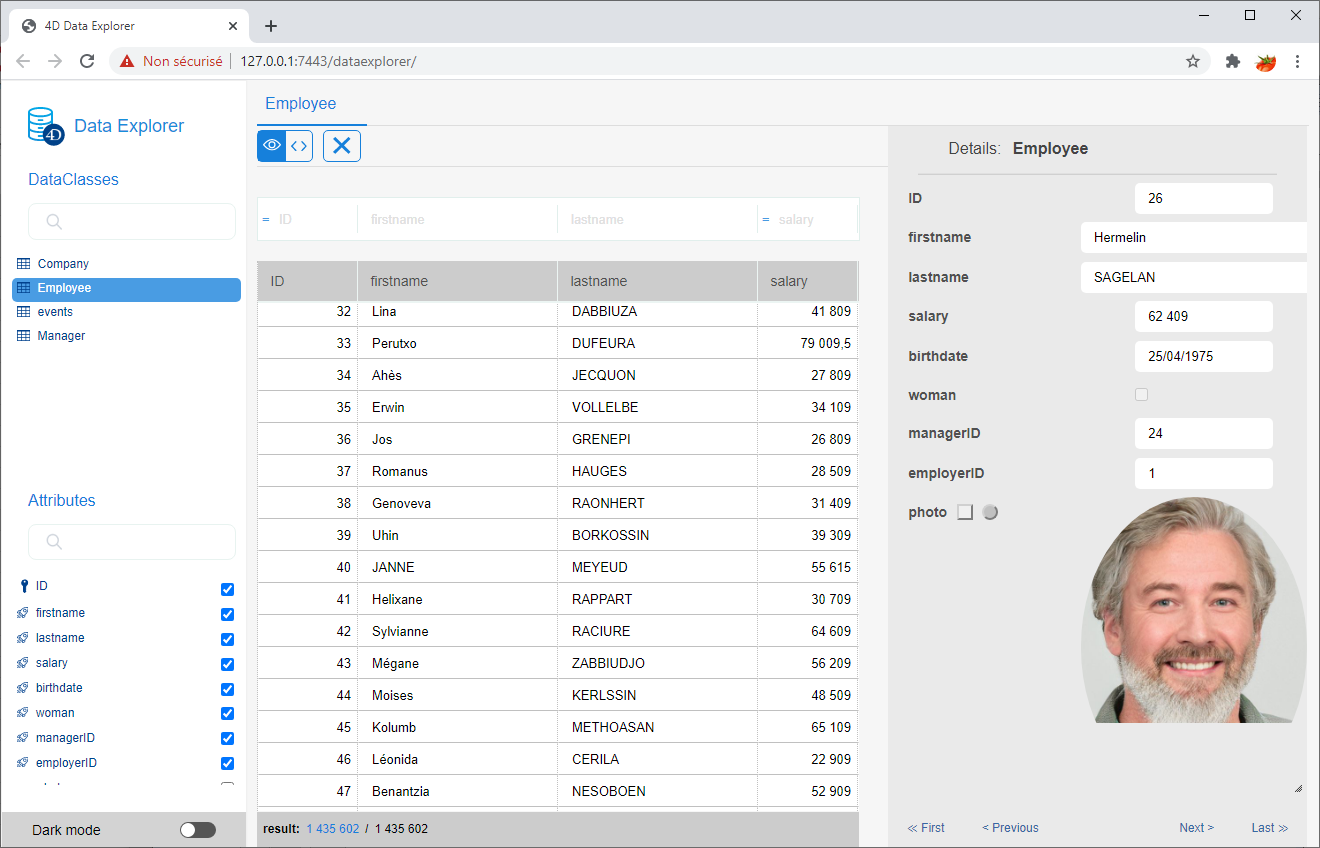
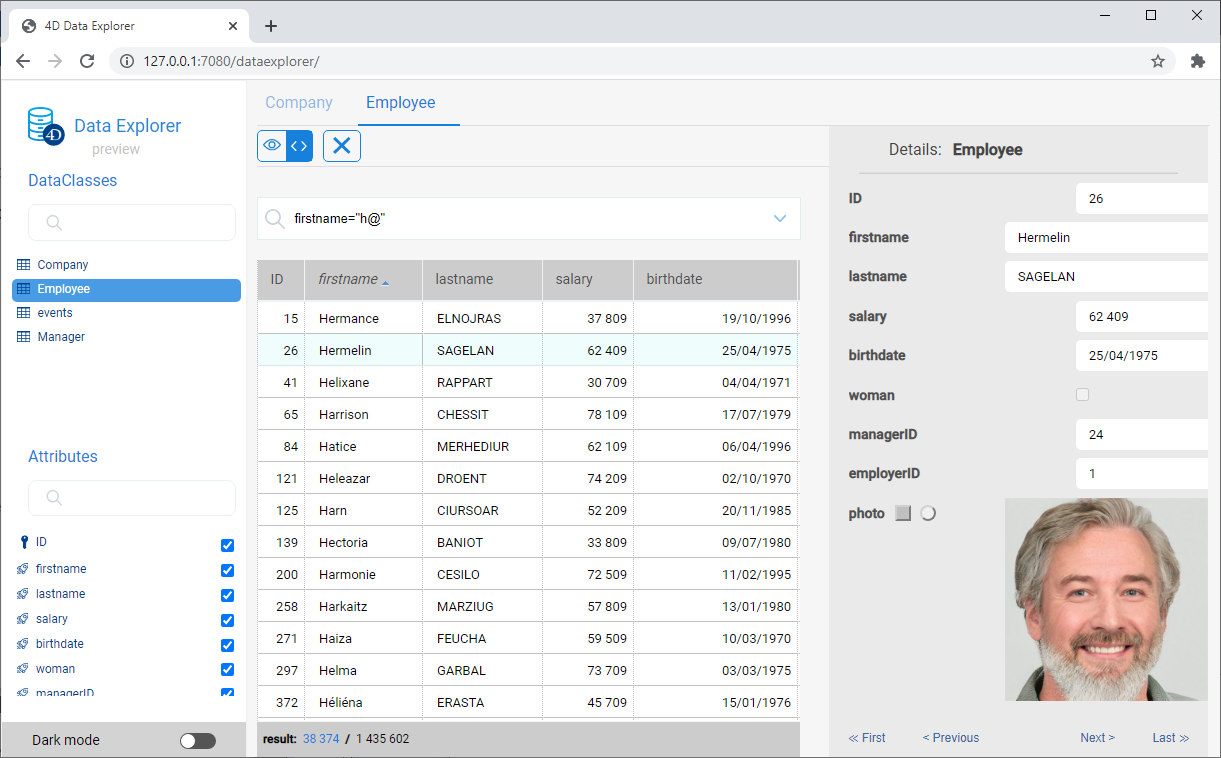
moved webadmin to dev

diff --git a/docs/Admin/dataExplorer.md b/docs/Admin/dataExplorer.md
@@ -3,8 +3,10 @@ id: dataExplorer
 title: Web Data Explorer
 ---
 
+> **Preview**: The Web Data Explorer is provided as a preview feature. Using this feature in a production purpose is not recommended; final implementation could be slightly different.
 
-The Data Explorer provides a web interface to view and query data in your datastore. Using this tool, you can easily browse among all your entities and search, order, or filter attribute values. It helps you to control data and quickly identify issues at any steps of the development process. 
+
+The Data Explorer provides a web interface to view and query data in your project datastore. Using this tool, you can easily browse among all your entities and search, order, or filter attribute values. It helps you to control data and quickly identify issues at any steps of the development process. 
 
 ![alt-text](assets/en/Admin/dataExplorer1.png)
 
@@ -14,9 +16,9 @@ The Data Explorer provides a web interface to view and query data in your datast
 The Data Explorer relies on the [`WebAdmin`](webAdmin.md) web server component for the configuration and authentication settings. 
 
 - **configuration**: the Data Explorer configuration reuses the [`WebAdmin` web server settings](webAdmin.md#webadmin-settings),
-- **authentication**: access to the Data Explorer is granted when the [session user is authenticated](webAdmin.md#authentication-and-session) and if the user has the "WebAdmin" privilege. When the Data Explorer is accessed through the **Data Explorer** menu item (see below), an automatic authentication is provided. 
+- **authentication**: access to the Data Explorer is granted when the [session user is authenticated](webAdmin.md#authentication-and-session) and has the "WebAdmin" privilege. When the Data Explorer is accessed through the **Data Explorer** menu item (see below), an automatic authentication is provided. 
 
-> A browser can only be authenticated for one Data Explorer page at a time (because of the session cookie). If you want to work simultaneously with multiple 4D instances on different projects, you must open Data Explorer pages with different browsers or use private browsing. 
+> The Data Explorer access can be disabled using the [`.setAdminProtection()`](API/datastoreClass.md#setadminprotection) function. 
 
 
 ## Opening the Data Explorer
@@ -27,7 +29,7 @@ To connect to the Data Explorer web page:
 
 - if you use a 4D application with interface, select **Data Explorer...** command from:
 	- the **Records** menu (in 4D stand-alone) 
-	- the **Window** menu (in 4D Server)
+	- the **Window** menu (in 4D Server)  
 
 - whether you use a headless 4D application or not, you can open your web browser and enter the following address:
 
@@ -35,8 +37,11 @@ To connect to the Data Explorer web page:
 or
 	`IPaddress:HTTPSPort/dataexplorer`
 
-[HTTPPort](webAdmin.md#http-port) and [HTTPSPort](webAdmin.md#https-port) values are configured in the `WebAdmin` settings. 
+	In this context, you will be prompted to enter the [access key](webAdmin.md#access-key) to open a `WebAdmin` session on the server:
 
+![alt-text](assets/en/Admin/accessKeyEnter.png)
+
+> [HTTPPort](webAdmin.md#http-port) and [HTTPSPort](webAdmin.md#https-port) values are configured in the `WebAdmin` settings. 
 
 
 
@@ -51,12 +56,13 @@ The Data Explorer supports the following web browsers:
 - Chrome
 - Safari
 - Edge
+- FireFox
 
-The minimum resolution to use the Data Explorer is 1280x720 dpi. Recommended resolution is 1920x1080 dpi.
+The minimum resolution to use the Data Explorer is 1280x720. Recommended resolution is 1920x1080.
 
 ### Basics
 
-The Data Explorer provides an overall access to the ORDA data model with respect to the [ORDA mapping](ORDA/dsmapping.md#general-rules). 
+The Data Explorer provides an overall access to the ORDA data model with respect to the [ORDA mapping rules](ORDA/dsMapping.md#general-rules). 
 
 You can switch to the **dark mode** display theme using the selector at the bottom of the page:
 
@@ -66,22 +72,22 @@ You can switch to the **dark mode** display theme using the selector at the bott
 
 The page contains several areas:
 
-- On the **left area**, you can select the dataclasses and attributes to display. You can filter the list of proposed dataclass names and attribute names using the respective search areas. 
+- On the left side are the **Dataclasses area** and **Attributes area**, allowing you can select the dataclasses and attributes to display. Attributes are ordered according to the underlying structure creation order. Primary key and indexed attributes have a specific icon. You can filter the list of proposed dataclass names and attribute names using the respective search areas.
 ![alt-text](assets/en/Admin/dataExplorer3.png)
 
-- The **central area** displays the *query area* and the list of entities of the selected dataclass. 
-	- By default, all entities are displayed. You can filter the displayed entities using the query area. Two query modes are available: [Query on attributes](#query-on-attributes) (selected by default), and the [Advanced query with expression](#advanced-query-with-expression). You select the query mode by clicking on the corresponding button (the **X** button allows you to reset the query area and thus stop filtering): 
+- The central part contains the **Search area** and the **Data grid** (list of entities of the selected dataclass). Each column of the grid represents a datastore attribute. 
+	- By default, all entities are displayed. You can filter the displayed entities using the search area. Two query modes are available: [Query on attributes](#query-on-attributes) (selected by default), and the [Advanced query with expression](#advanced-query-with-expression). You select the query mode by clicking on the corresponding button (the **X** button allows you to reset the query area and thus stop filtering): 
 	![alt-text](assets/en/Admin/dataExplorer4b.png)
 
-	- The name of the selected dataclass is added as a tab above the list. Using these tabs, you can switch between dataclasses that have been already selected. You can remove a referenced dataclass by clicking the "remove" icon at the right of the dataclass name. Each column represents a datastore attribute. 
-	- You can reduce the number of columns by unchecking attributes in the left side. You can also switch the columns in the table using drag and drop. You can click on a column header to [sort entities](#ordering-entities) according to its values (if possible). 
-	- If the loading of dataclass entities requires a long time, a "Loading data" bar is displayed to inform you that this operation is in progress. You can stop the loading at any moment by clicking on the red button, only the loaded entities will be available then:
+	- The name of the selected dataclass is added as a tab above the data grid. Using these tabs, you can switch between dataclasses that have been already selected. You can remove a referenced dataclass by clicking the "remove" icon at the right of the dataclass name. 
+	- You can reduce the number of columns by unchecking attributes in the left side. You can also switch the columns in the data grid using drag and drop. You can click on a column header to [sort entities](#ordering-entities) according to its values (when possible). 
+	- If an operation requires a long time, a progress bar is displayed. You can stop the running operation at any moment by clicking on the red button:
 
 ![alt-text](assets/en/Admin/dataExplorer5.png)
 
 
 
-- The **right area** displays the attribute values of the currently selected entity.
+- On the right side is the **Details area**: it displays the attribute values of the currently selected entity.
 All attribute types are displayed, including pictures and objects (expressed in json). You can browse between the entities of the dataclass by clicking the **First** / **Previous** / **Next** / **Last** links at the bottom of the area.   
 
 
@@ -107,6 +113,12 @@ You can reorder the displayed entity list according to attribute values. All typ
 In this mode, you can filter entities by entering values to find (or to exclude) in the areas above the attribute list. You can filter on one or several attributes. The entity list is automatically updated when you type in.
 
 ![alt-text](assets/en/Admin/dataExplorer6.png)
+
+If you enter several attributes, a AND is automatically applied. For example, the following filter displays entities with *firstname* attribute starting with "flo" AND *salary* attribute value > 50000:
+
+![alt-text](assets/en/Admin/dataExplorer9.png)
+
+The **X** button allows you to remove entered attributes and thus stop filtering.
 
 Different operators and query options are available, depending on the data type of the attribute. 
 
@@ -137,16 +149,15 @@ When you click on a boolean attribute area, you can filter on **true**/**false**
 
 Text filters are not diacritic (a = A). 
 
-By default, the filter is of the "starts with" type. For example, entering "Jim" will show "Jim" and "Jimmy" values. 
+The filter is of the "starts with" type. For example, entering "Jim" will show "Jim" and "Jimmy" values. 
 
-You can also use the wildcard character (@) to replace one or more characters in order to create different filters, such as "ends with". For example: 
+You can also use the wildcard character (@) to replace one or more starting characters. For example: 
 
 |A filter with|Finds|
 |---|---|
-|Bel@|All values beginning with “Bel” (equivalent to "Bel")|
-|@do|All values ending with “do”|
-|Bel@do|All values starting with “Bel” and ending with “do”|
-|@elm@|All values containing “elm”|
+|Bel|All values beginning with “Bel”|
+|@do|All values containing “do”|
+|Bel@do|All values starting with “Bel” and containing “do”|
 
 If you want to create more specific queries, such as "is exactly", you may need to use the advanced queries feature.
 
@@ -163,8 +174,22 @@ You can enter advanced queries that are not available as attribute queries. For 
 firstname=="Jim"
 ```
 
-You can use any ORDA query expression as [documented with the `query()` function](API/dataclassClass.md#query), including placeholders and formulas. For example, with the Employee dataclass, you could write:
+You can use any ORDA query expression as [documented with the `query()` function](API/dataclassClass.md#query), with the following limitations or differences:
+
+- For security, you cannot execute formulas using `eval()`. 
+- Placeholders cannot be used; you have to write a *queryString* with values.
+- String values containing space characters must be embedded in double quotes ("").
+
+For example, with the Employee dataclass, you can write:
 
 ```
-"lastName = :1 and manager.lastName = :2";"M@";"S@")
+firstname = "Marie Sophie" AND manager.lastname = "@th"
 ```
+
+You can click on the `v` icon to display both [`queryPlan`](API/dataclassClass.md#queryplan) and [`queryPath`](API/dataclassClass.md#querypath). In the area, you can hover over the subquery blocks to have detailed information per subquery:
+
+![alt-text](assets/en/Admin/dataExplorer12.png)
+
+Right-click in the query area to display the previous valid queries:
+
+![alt-text](assets/en/Admin/dataExplorer11.png)

diff --git a/docs/API/datastoreClass.md b/docs/API/datastoreClass.md
@@ -19,6 +19,7 @@ A [Datastore](ORDA/dsMapping.md#datastore) is the interface object provided by O
 |[<!-- INCLUDE #datastoreClass.getRequestLog().Syntax -->](#getrequestlog)<p>&nbsp;&nbsp;&nbsp;&nbsp;<!-- INCLUDE #datastoreClass.getRequestLog().Summary --> |
 |[<!-- INCLUDE #datastoreClass.makeSelectionsAlterable().Syntax -->](#makeselectionsalterable)<p>&nbsp;&nbsp;&nbsp;&nbsp;<!-- INCLUDE #datastoreClass.makeSelectionsAlterable().Summary --> |
 |[<!-- INCLUDE #datastoreClass.provideDataKey().Syntax -->](#providedatakey)<p>&nbsp;&nbsp;&nbsp;&nbsp;<!-- INCLUDE #datastoreClass.provideDataKey().Summary --> |
+|[<!-- INCLUDE #datastoreClass.setAdminProtection().Syntax -->](#setAdminProtection)<p>&nbsp;&nbsp;&nbsp;&nbsp;<!-- INCLUDE #datastoreClass.setAdminProtection().Summary --> |
 |[<!-- INCLUDE #datastoreClass.startRequestLog().Syntax -->](#startrequestlog)<p>&nbsp;&nbsp;&nbsp;&nbsp;<!-- INCLUDE #datastoreClass.startRequestLog().Summary --> |
 |[<!-- INCLUDE #datastoreClass.startTransaction().Syntax -->](#starttransaction)<p>&nbsp;&nbsp;&nbsp;&nbsp;<!-- INCLUDE #datastoreClass.startTransaction().Summary --> |
 |[<!-- INCLUDE #datastoreClass.stopRequestLog().Syntax -->](#stoprequestlog)<p>&nbsp;&nbsp;&nbsp;&nbsp;<!-- INCLUDE #datastoreClass.stopRequestLog().Summary --> |
@@ -468,6 +469,40 @@ See Example 2 of [`.startRequestLog()`](#startrequestlog).
 <!-- END REF -->
 
 
+<!-- REF datastoreClass.isAdminProtected().Desc -->
+## .isAdminProtected()
+
+<details><summary>History</summary>
+|Version|Changes|
+|---|---|
+|v18 R6|Added|
+</details>
+
+<!-- REF #datastoreClass.isAdminProtected().Syntax -->
+**.isAdminProtected()** : Boolean<!-- END REF -->
+
+<!-- REF #datastoreClass.isAdminProtected().Params -->
+|Parameter|Type||Description|
+|---------|--- |:---:|------|
+|Result|Boolean|<-|True if the Data Explorer access is disabled, False if it is enabled (default)|
+<!-- END REF -->
+
+
+#### Description
+
+The `.isAdminProtected()` function <!-- REF #datastoreClass.isAdminProtected().Summary -->returns `True` if [Data Explorer](Admin/dataExplorer.md) access has been disabled for the working session<!-- END REF -->. 
+
+By default, the Data Explorer access is granted for `webAdmin` sessions, but it can be disabled to prevent any data access from administrators (see the [`.setAdminProtection()`](#setadminprotection) function). 
+
+#### See also
+
+[`.setAdminProtection()`](#setadminprotection)
+
+<!-- END REF -->
+
+
+
+
 <!-- REF datastoreClass.makeSelectionsAlterable().Desc -->
 ## .makeSelectionsAlterable()
 
@@ -581,6 +616,48 @@ If no *curPassphrase* or *curDataKey* is given, `.provideDataKey()` returns **nu
 
 <!-- END REF -->
 
+
+<!-- REF datastoreClass.setAdminProtection().Desc -->
+## .setAdminProtection()
+
+<details><summary>History</summary>
+|Version|Changes|
+|---|---|
+|v18 R6|Added|
+</details>
+
+<!-- REF #datastoreClass.setAdminProtection().Syntax -->**.setAdminProtection**( *status* : Boolean )<!-- END REF -->
+
+
+<!-- REF #datastoreClass.setAdminProtection().Params -->
+|Parameter|Type||Description|
+|---|---|---|---|
+|status|Boolean|->|True to disable Data Explorer access to data on the `webAdmin` port, False (default) to grant access|
+<!-- END REF -->
+
+
+#### Description
+
+The `.setAdminProtection()` function <!-- REF #datastoreClass.setAdminProtection().Summary -->allows disabling any data access on the [web admin port](Admin/webAdmin.md#http-port), including for the [Data Explorer](Admin/dataExplorer.md) in `WebAdmin` sessions<!-- END REF -->. 
+
+By default when the function is not called, access to data is always granted on the web administration port for a session with `WebAdmin` privilege using the Data Explorer. In some configurations, for example when the application server is hosted on a third-party machine, you might not want the administrator to be able to view your data, although they can edit the server configuration, including the [access key](Admin/webAdmin.md#access-key) settings. 
+
+In this case, you can call this function to disable the data access from Data Explorer on the web admin port of the machine, even if the user session has the `WebAdmin` privilege. When this function is executed, the data file is immediately protected and the status is stored on disk: the data file will be protected even if the application is restarted. 
+
+
+#### Example
+
+You create a *protectDataFile* project method to call before deployments for example:
+
+```4d
+ ds.setAdminProtection(True) //Disables the Data Explorer data access
+``` 
+
+#### See also
+
+[`.isAdminProtected()`](#isadminprotected)
+
+<!-- END REF -->
 
 
 <!-- REF datastoreClass.startRequestLog().Desc -->
